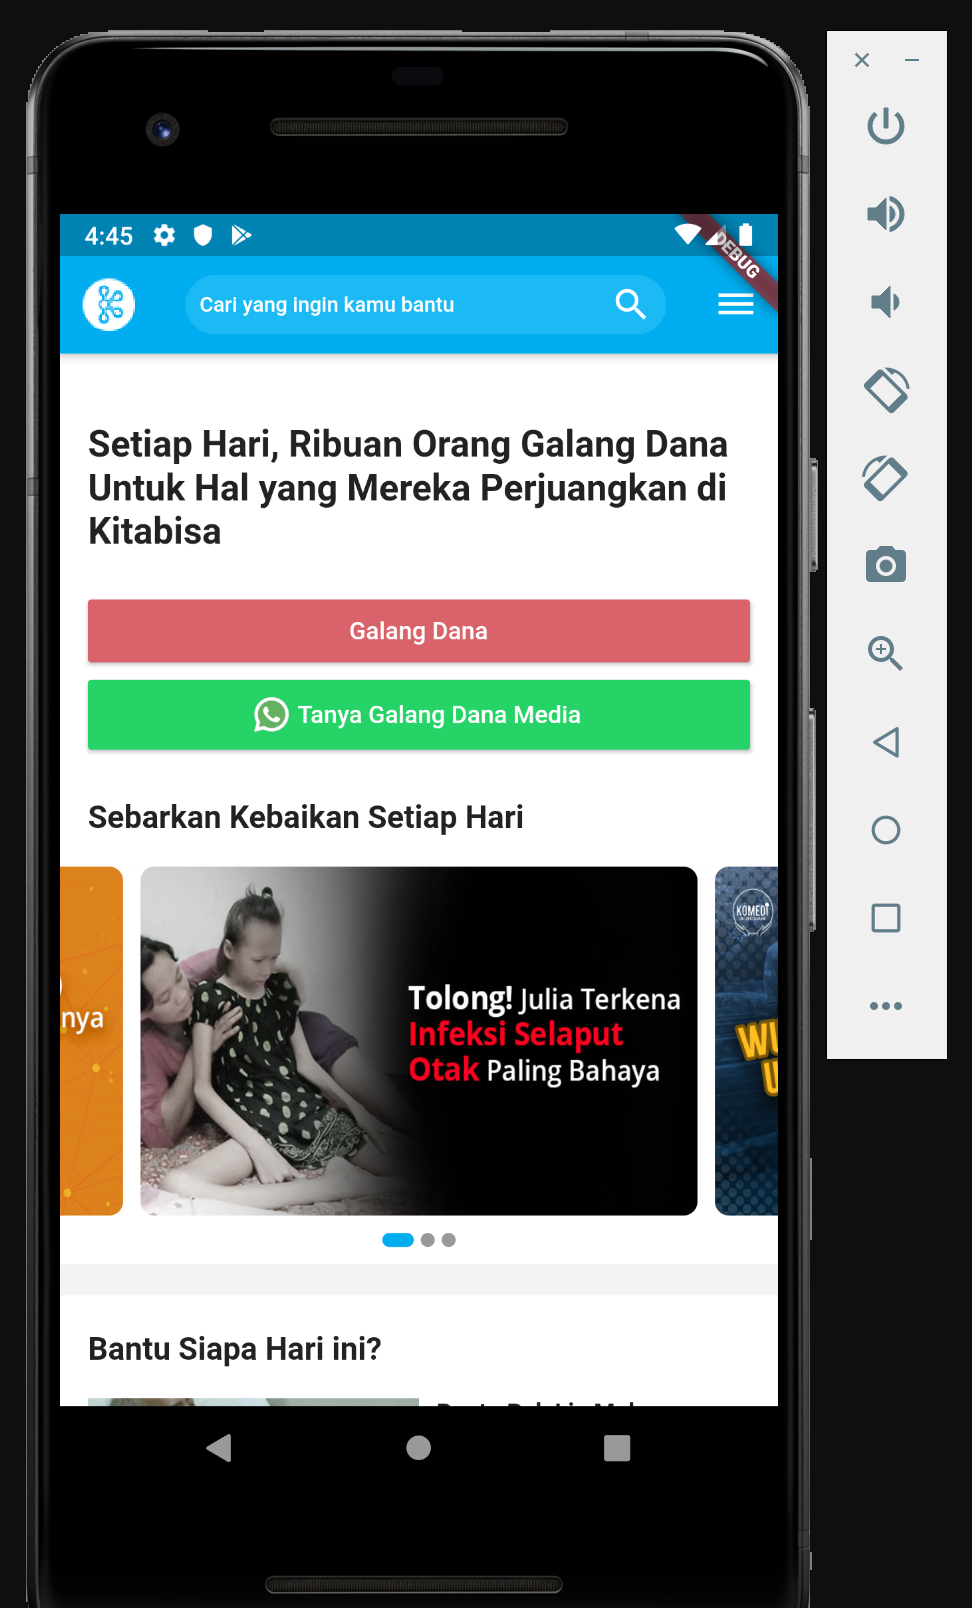
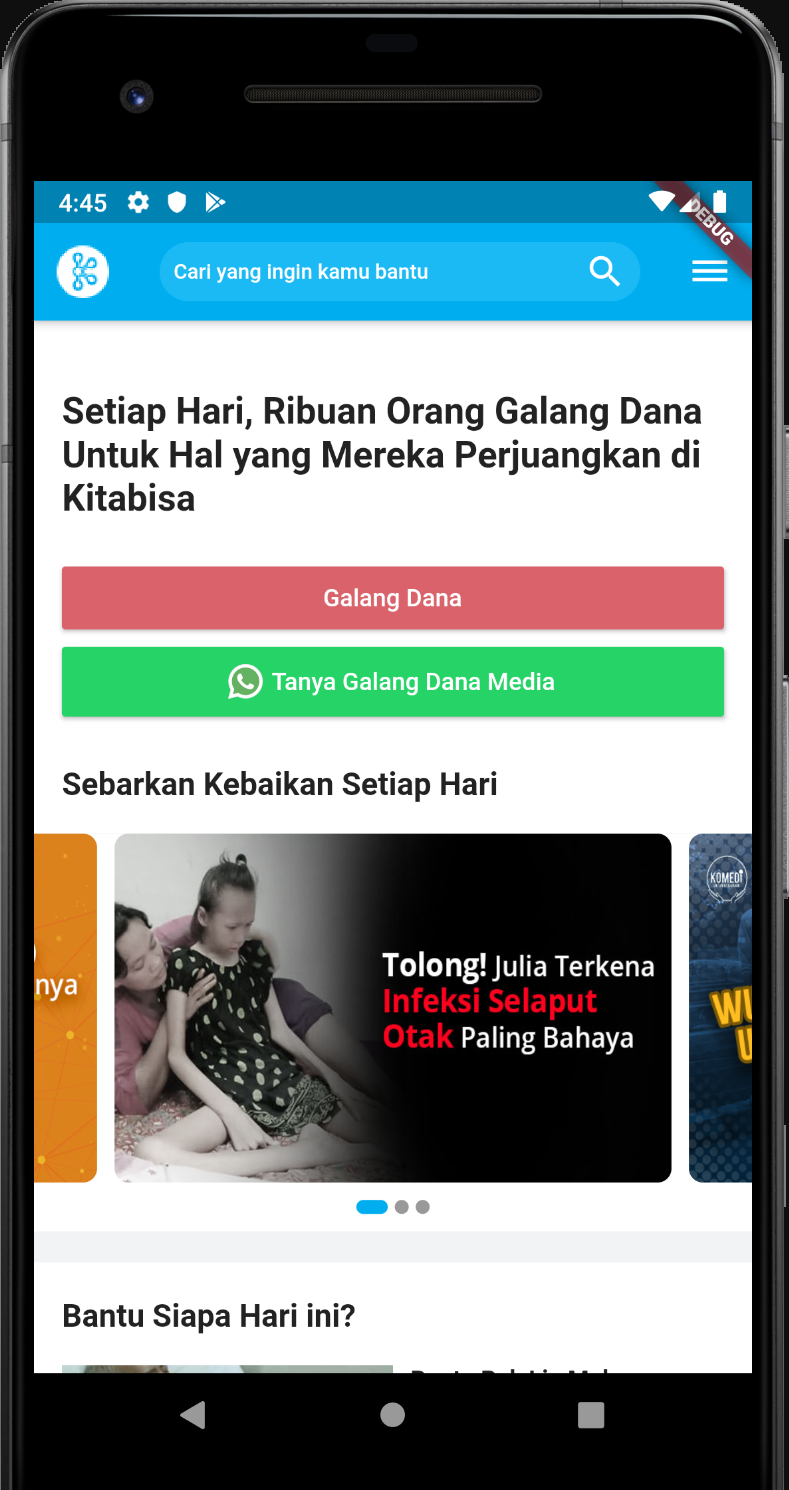
update readme

diff --git a/README.md b/README.md
@@ -1,3 +1,5 @@
 # KITABISA CLONE APP
 
 ##### #ProjectAfterLunch
+
+![kitabisacloneimage.png](kitabisacloneimage.png)
